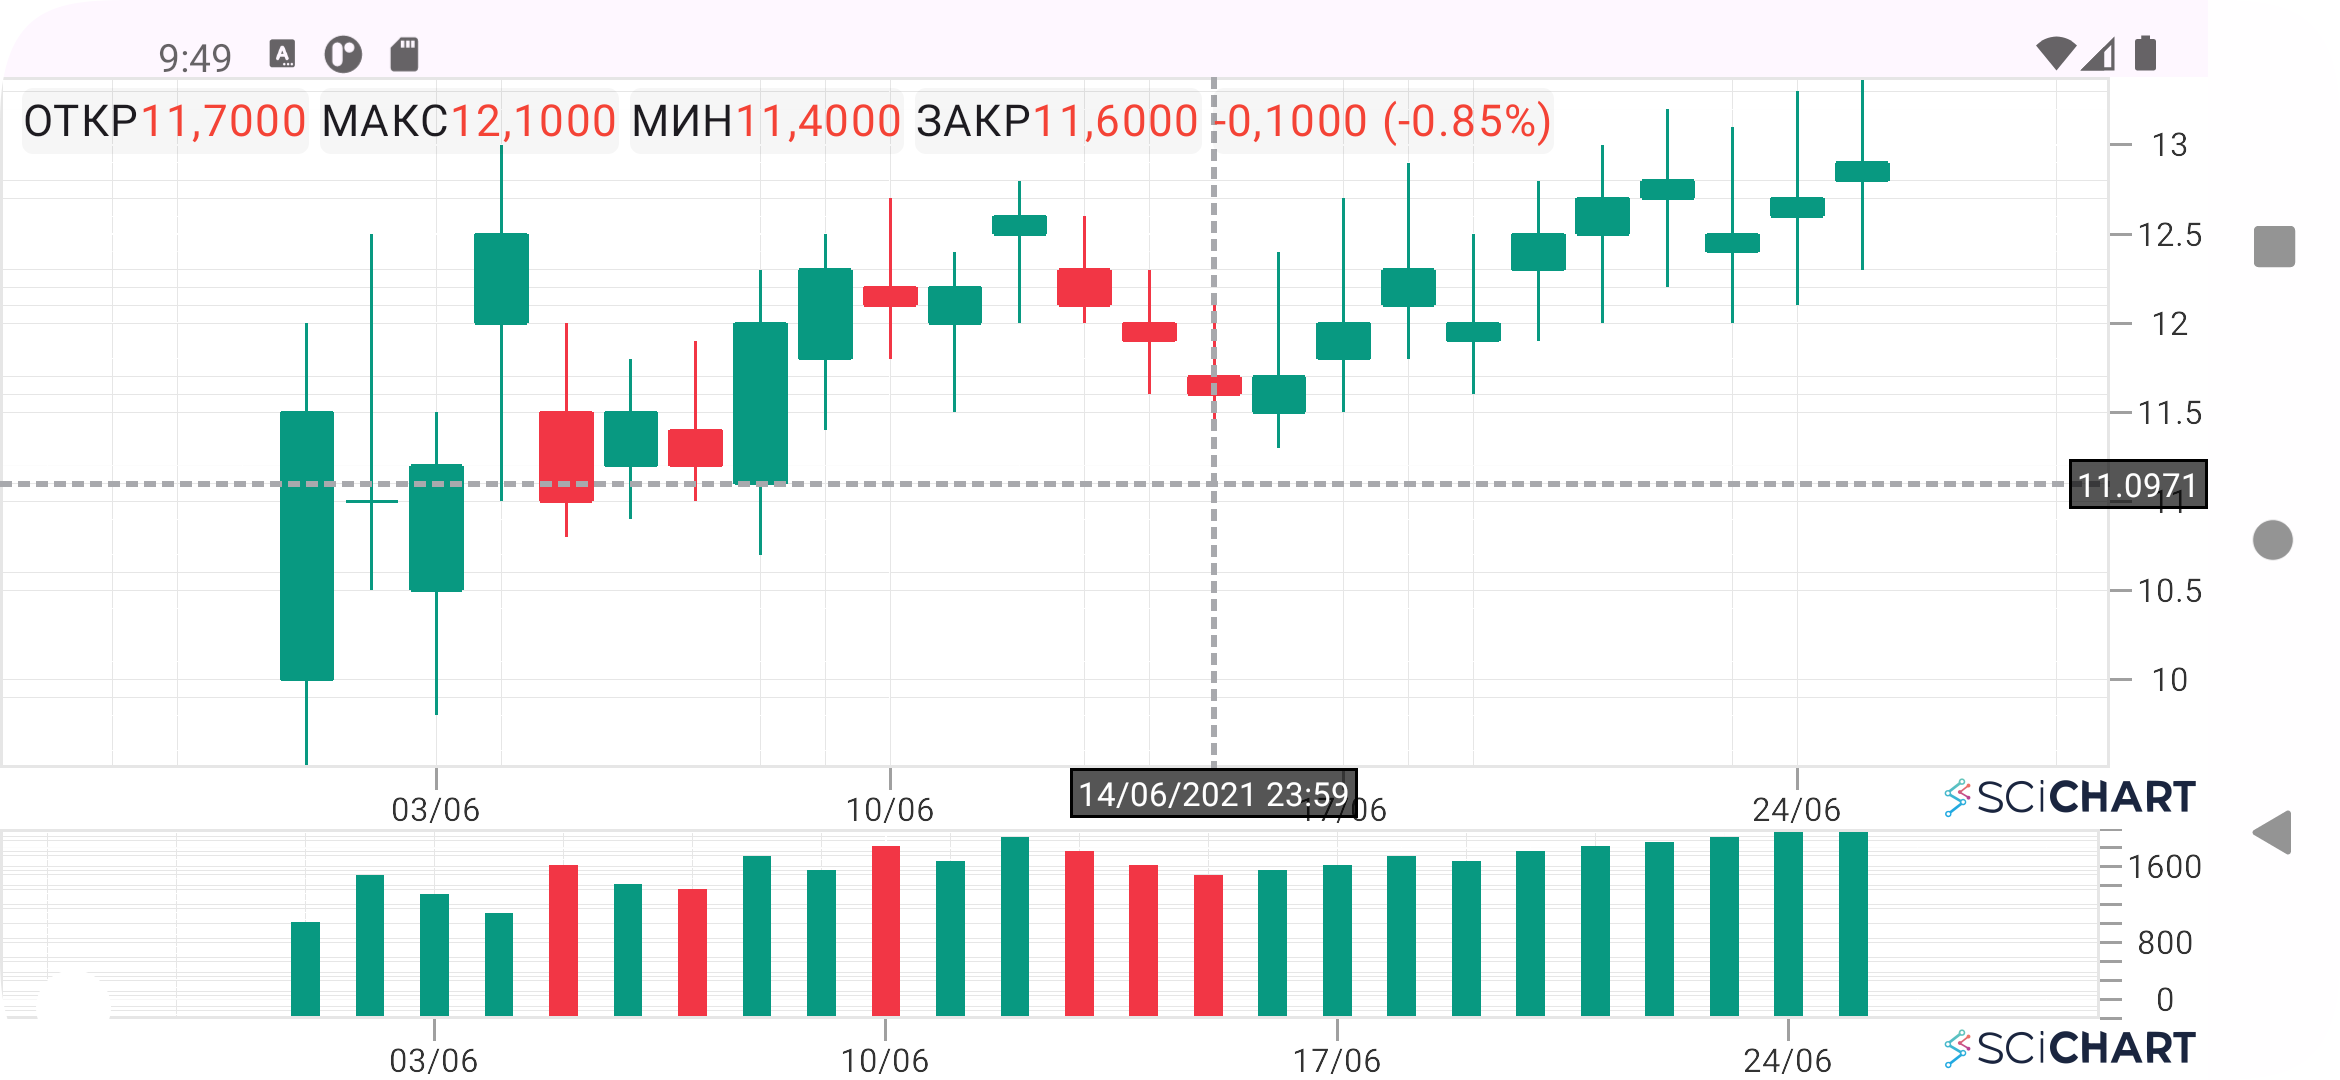
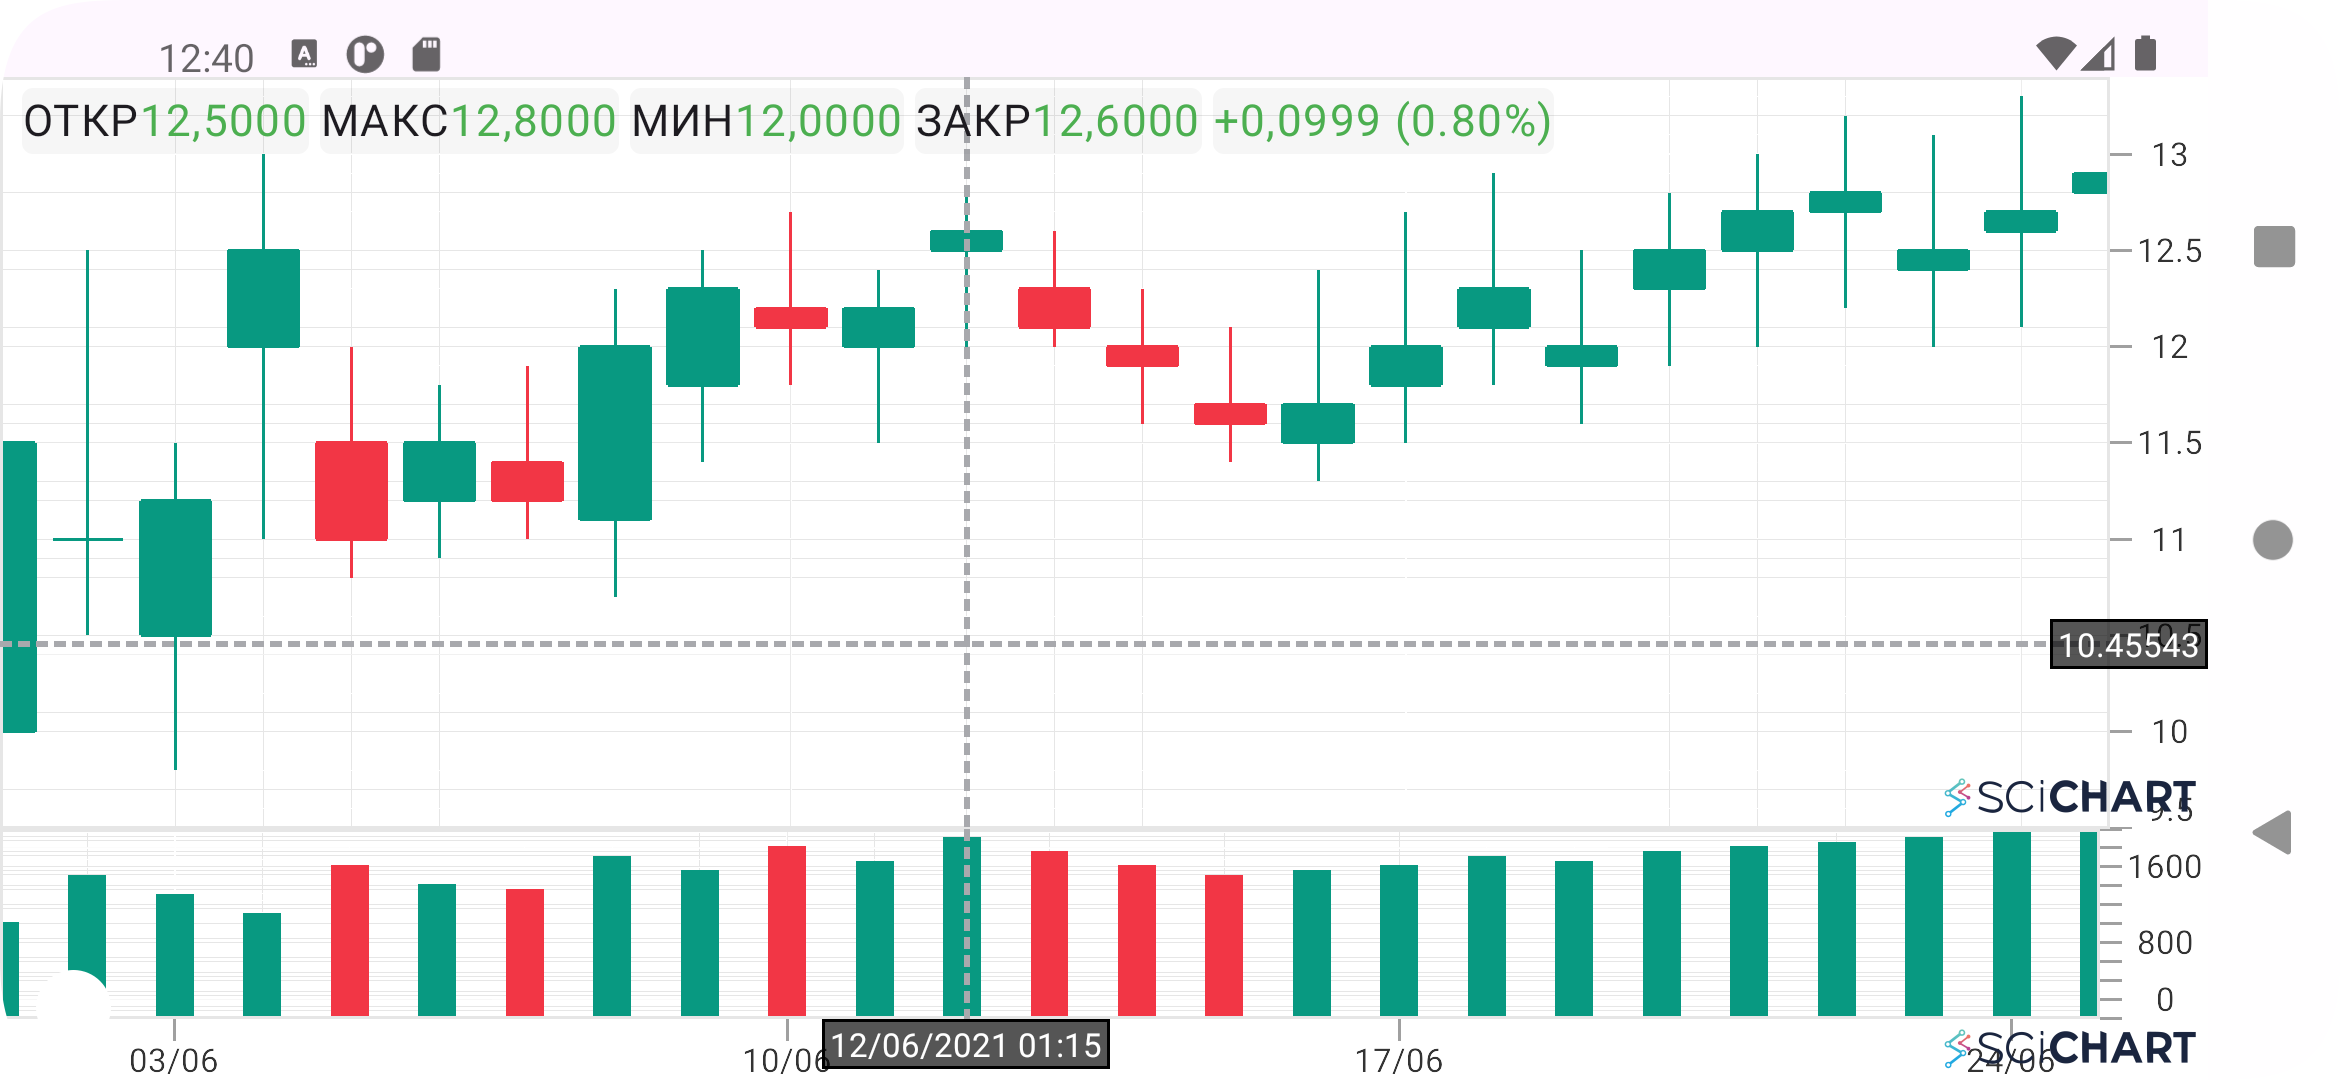
Implemented charts crosshair sync with volume chart only vertical cursor style

diff --git a/app/src/main/kotlin/com/banana/finchart/ui/screen/main/MainScreen.kt b/app/src/main/kotlin/com/banana/finchart/ui/screen/main/MainScreen.kt
@@ -3,6 +3,7 @@
 package com.banana.finchart.ui.screen.main
 
 import android.graphics.DashPathEffect
+import android.view.View
 import androidx.compose.foundation.background
 import androidx.compose.foundation.layout.Arrangement
 import androidx.compose.foundation.layout.Box
@@ -19,7 +20,6 @@ import androidx.compose.material3.AlertDialog
 import androidx.compose.material3.Button
 import androidx.compose.material3.MaterialTheme
 import androidx.compose.material3.Text
-import androidx.compose.material3.TextButton
 import androidx.compose.material3.TextField
 import androidx.compose.material3.TextFieldDefaults
 import androidx.compose.runtime.Composable
@@ -39,15 +39,18 @@ import androidx.compose.ui.unit.dp
 import androidx.compose.ui.viewinterop.AndroidView
 import com.banana.finchart.R
 import com.banana.finchart.data.market.OHLC
-import com.banana.finchart.ui.common.chart.SnapCrosshairModifier
+import com.banana.finchart.ui.common.chart.modifier.SnapCrosshairModifier
 import com.banana.finchart.ui.common.chart.VolumePaletteProvider
+import com.banana.finchart.ui.common.chart.modifier.verticalCursor.VerticalCursorModifier
 import com.banana.finchart.ui.common.util.FormatUtil.format
 import com.banana.finchart.ui.common.util.FormatUtil.formatWithComma
+import com.banana.finchart.ui.common.util.TouchUtil.overrideTouch
 import com.banana.finchart.ui.theme.ChartGreenUp
 import com.banana.finchart.ui.theme.ChartGridColor
 import com.banana.finchart.ui.theme.ChartRedDown
 import com.scichart.charting.model.dataSeries.OhlcDataSeries
 import com.scichart.charting.model.dataSeries.XyDataSeries
+import com.scichart.charting.modifiers.CursorModifier
 import com.scichart.charting.modifiers.PinchZoomModifier
 import com.scichart.charting.modifiers.ZoomExtentsModifier
 import com.scichart.charting.visuals.SciChartSurface
@@ -63,6 +66,8 @@ import java.util.Collections
 import java.util.Date
 
 object MainScreen {
+
+    private lateinit var crosshairModifier: SnapCrosshairModifier
 
     @Composable
     fun TradingChart(modifier: Modifier, mainViewModel: MainScreenViewModel) {
@@ -195,11 +200,11 @@ object MainScreen {
                 }
             },
             update = { surface ->
-                var ohlcList = mainViewModel.activeChartSnapshot.value!!.ohlcDataList
+                val ohlcList = mainViewModel.activeChartSnapshot.value!!.ohlcDataList
 
                 val xAxis = DateAxis(surface.context).apply {
                     axisId = "xAxisCandle"
-                    //visibility = View.GONE
+                    visibility = View.GONE
                     this.visibleRange = visibleRange.value
                     setVisibleRangeChangeListener { axus, oldRange, newRange, isAnimated ->
                         if (visibleRange.value != newRange) {
@@ -234,17 +239,14 @@ object MainScreen {
                     yAxisId = "yAxisCandle"
                 }
 
-                val crosshairModifier = SnapCrosshairModifier(
+                crosshairModifier = SnapCrosshairModifier(
                     candleDataSeries = dataSeries,
                     stateFlow = mainViewModel.crosshairStateFlow,
-                ).apply {
-                    crosshairPaint.apply {
-                        pathEffect = DashPathEffect(floatArrayOf(12f, 6f), 0f)
-                    }
-                }
+                )
 
                 UpdateSuspender.using(surface) {
                     applyAxisStyle(xAxis, yAxis)
+                    applyCursorModifierStyle(crosshairModifier)
 
                     Collections.addAll(surface.renderableSeries, candleSeries)
                     Collections.addAll(
@@ -273,7 +275,7 @@ object MainScreen {
                 }
             },
             update = { surface ->
-                var ohlcList = mainViewModel.activeChartSnapshot.value!!.ohlcDataList
+                val ohlcList = mainViewModel.activeChartSnapshot.value!!.ohlcDataList
 
                 val xAxis = DateAxis(surface.context).apply {
                     axisId = "xAxisVolume"
@@ -312,21 +314,35 @@ object MainScreen {
                     yAxisId = "yAxisVolume"
                 }
 
-//                val volumeCross = CursorModifier().apply {
-//                }
+                val volumeCross = VerticalCursorModifier().apply {
+                    crosshairModifier.setModifierTouchListener {
+                        onTouch(it.overrideTouch(surface, this))
+                    }
+                }
 
                 UpdateSuspender.using(surface) {
                     applyAxisStyle(xAxis, yAxis)
                     applyVolumeStyle(columnSeries, ohlcList)
+                    applyCursorModifierStyle(volumeCross)
 
                     Collections.addAll(surface.renderableSeries, columnSeries)
                     Collections.addAll(
                         surface.chartModifiers,
-//                        volumeCross
+                        volumeCross
                     )
                 }
             }
         )
+    }
+
+    private fun applyCursorModifierStyle(modifier: CursorModifier) {
+        modifier.apply {
+            offset = 0f
+            showTooltip = false
+            crosshairPaint.apply {
+                pathEffect = DashPathEffect(floatArrayOf(12f, 6f), 0f)
+            }
+        }
     }
 
     private fun applyVolumeStyle(columnSeries: FastColumnRenderableSeries, ohlcList: List<OHLC>) {

diff --git a/app/src/main/kotlin/com/banana/finchart/ui/common/chart/modifier/SnapCrosshairModifier.kt b/app/src/main/kotlin/com/banana/finchart/ui/common/chart/modifier/SnapCrosshairModifier.kt
@@ -1,8 +1,8 @@
-package com.banana.finchart.ui.common.chart
+package com.banana.finchart.ui.common.chart.modifier
 
-import android.os.SystemClock
 import android.view.MotionEvent
 import android.view.ViewConfiguration
+import com.banana.finchart.ui.common.util.TouchUtil.overrideTouch
 import com.scichart.charting.model.dataSeries.OhlcDataSeries
 import com.scichart.charting.modifiers.CursorModifier
 import com.scichart.core.IServiceContainer
@@ -28,7 +28,7 @@ class SnapCrosshairModifier(
         val timestampMs: Long
     ) {
         object None : State(-1)
-        data class Active(var timestamp: Long) : State(timestamp)
+        class Active(timestampMs: Long) : State(timestampMs)
     }
 
     // Handler + Looper is so trivial
@@ -37,12 +37,9 @@ class SnapCrosshairModifier(
     private var longPressToggle = false
     private val longPressTimeoutMs = ViewConfiguration.getLongPressTimeout().toLong()
 
-    private var pressToggle = false
+    private var modifierTouchHandler: ((ModifierTouchEventArgs) -> Unit)? = null
 
-    init {
-        offset = 0f
-        showTooltip = false
-    }
+    private var pressToggle = false
 
     var pX = 0f
     var pY = 0f
@@ -70,12 +67,12 @@ class SnapCrosshairModifier(
 
                     stateFlow.value = State.Active(candleTimestampMs)
 
-                    val tea = touchEventArgs.asFakeTouch(
-                        pX,
-                        pY,
-                        MotionEvent.ACTION_DOWN
-                    )
-                    super.onTouch(tea)
+                    proceedModifierTouch(
+                        touchEventArgs.overrideTouch(
+                            pX,
+                            pY,
+                            MotionEvent.ACTION_DOWN
+                        ))
                 }
             }
             MotionEvent.ACTION_MOVE -> {
@@ -94,12 +91,12 @@ class SnapCrosshairModifier(
 
                 stateFlow.value = State.Active(candleTimestampMs)
 
-                val tea = touchEventArgs.asFakeTouch(
-                    pX,
-                    pY,
-                    MotionEvent.ACTION_MOVE
-                )
-                super.onTouch(tea)
+                proceedModifierTouch(
+                    touchEventArgs.overrideTouch(
+                        pX,
+                        pY,
+                        MotionEvent.ACTION_MOVE
+                    ))
             }
             MotionEvent.ACTION_UP, MotionEvent.ACTION_CANCEL -> {
                 longPressJob?.cancel()
@@ -109,9 +106,14 @@ class SnapCrosshairModifier(
 
                 stateFlow.value = State.None
 
-                super.onTouch(touchEventArgs)
+                proceedModifierTouch(touchEventArgs)
             }
         }
+    }
+
+    private fun proceedModifierTouch(touchEventArgs: ModifierTouchEventArgs) {
+        super.onTouch(touchEventArgs)
+        modifierTouchHandler?.invoke(touchEventArgs)
     }
 
     private fun findNearestCandleTimestampMs(touchX: Float): Long {
@@ -140,14 +142,7 @@ class SnapCrosshairModifier(
         super.detach()
     }
 
-    private fun ModifierTouchEventArgs.asFakeTouch(x: Float, y: Float, action: Int) = apply {
-        e = MotionEvent.obtain(
-            SystemClock.uptimeMillis(),
-            SystemClock.uptimeMillis(),
-            action,
-            x,
-            y,
-            0,
-        )
+    fun setModifierTouchListener(handler: ((ModifierTouchEventArgs) -> Unit)?) {
+        this.modifierTouchHandler = handler
     }
 }

diff --git a/app/src/main/kotlin/com/banana/finchart/ui/common/SecurePrefs.kt b/app/src/main/kotlin/com/banana/finchart/ui/common/SecurePrefs.kt
@@ -3,7 +3,8 @@ package com.banana.finchart.ui.common
 import android.content.Context
 import android.content.SharedPreferences
 import androidx.security.crypto.EncryptedSharedPreferences
-import androidx.security.crypto.MasterKeys
+import androidx.security.crypto.MasterKey
+import androidx.core.content.edit
 
 class SecurePrefs(context: Context) {
 
@@ -13,11 +14,14 @@ class SecurePrefs(context: Context) {
     }
 
     private val sharedPrefs: SharedPreferences by lazy {
-        val masterKeyAlias = MasterKeys.getOrCreate(MasterKeys.AES256_GCM_SPEC)
+        val masterKey = MasterKey.Builder(context)
+            .setKeyScheme(MasterKey.KeyScheme.AES256_GCM)
+            .build()
+
         EncryptedSharedPreferences.create(
-            PREFS_NAME,
-            masterKeyAlias,
             context.applicationContext,
+            PREFS_NAME,
+            masterKey,
             EncryptedSharedPreferences.PrefKeyEncryptionScheme.AES256_SIV,
             EncryptedSharedPreferences.PrefValueEncryptionScheme.AES256_GCM
         )
@@ -26,10 +30,10 @@ class SecurePrefs(context: Context) {
     fun getSciChartsApiKey(): String? = sharedPrefs.getString(KEY_SCI_CHARTS_API, null)
 
     fun saveSciChartsApiKey(key: String) {
-        sharedPrefs.edit().putString(KEY_SCI_CHARTS_API, key).apply()
+        sharedPrefs.edit { putString(KEY_SCI_CHARTS_API, key) }
     }
 
     fun clearSciChartsApiKey() {
-        sharedPrefs.edit().remove(KEY_SCI_CHARTS_API).apply()
+        sharedPrefs.edit { remove(KEY_SCI_CHARTS_API) }
     }
 }

diff --git a/app/src/main/kotlin/com/banana/finchart/ui/common/chart/modifier/verticalCursor/VerticalCursorModifier.kt b/app/src/main/kotlin/com/banana/finchart/ui/common/chart/modifier/verticalCursor/VerticalCursorModifier.kt
@@ -1,0 +1,24 @@
+package com.banana.finchart.ui.common.chart.modifier.verticalCursor
+
+import com.scichart.charting.R
+import com.scichart.charting.modifiers.CursorModifier
+import com.scichart.charting.modifiers.behaviors.AxisTooltipsBehaviorBase
+import com.scichart.charting.modifiers.behaviors.CursorCrosshairDrawableBehavior
+import com.scichart.charting.modifiers.behaviors.CursorTooltipBehavior
+
+class VerticalCursorModifier : CursorModifier {
+
+    constructor() : this(R.layout.scichart_default_cursor_modifier_tooltip_container)
+
+    constructor(tooltipContainerLayoutResId: Int) : this(
+        CursorTooltipBehavior(VerticalCursorModifier::class.java, tooltipContainerLayoutResId),
+        VerticalCursorTooltipsBehavior(VerticalCursorModifier::class.java),
+        VerticalCursorDrawableBehavior(VerticalCursorModifier::class.java)
+    )
+
+    constructor(
+        cursorTooltipBehavior: CursorTooltipBehavior<*>,
+        axisTooltipsBehavior: AxisTooltipsBehaviorBase<*>,
+        crosshairDrawableBehavior: CursorCrosshairDrawableBehavior<*>
+    ) : super(cursorTooltipBehavior, axisTooltipsBehavior, crosshairDrawableBehavior)
+}

diff --git a/app/src/main/kotlin/com/banana/finchart/ui/common/util/TouchUtil.kt b/app/src/main/kotlin/com/banana/finchart/ui/common/util/TouchUtil.kt
@@ -1,0 +1,35 @@
+package com.banana.finchart.ui.common.util
+
+import android.os.SystemClock
+import android.view.MotionEvent
+import com.scichart.core.utility.touch.IPublishMotionEvents
+import com.scichart.core.utility.touch.IReceiveMotionEvents
+import com.scichart.core.utility.touch.ModifierTouchEventArgs
+
+object TouchUtil {
+    fun ModifierTouchEventArgs.overrideTouch(
+        x: Float,
+        y: Float,
+        action: Int,
+        recycle: Boolean = true
+    ) = apply {
+        if (recycle) e?.recycle()
+        e = MotionEvent.obtain(
+            SystemClock.uptimeMillis(),
+            SystemClock.uptimeMillis(),
+            action,
+            x,
+            y,
+            0,
+        )
+    }
+
+    fun ModifierTouchEventArgs.overrideTouch(
+        target: IPublishMotionEvents,
+        source: IReceiveMotionEvents,
+        recycle: Boolean = true
+    ) = run {
+        ModifierTouchEventArgs(target, source)
+            .overrideTouch(e.x, e.y, e.action, recycle)
+    }
+}

diff --git a/app/src/main/kotlin/com/banana/finchart/ui/common/chart/modifier/verticalCursor/VerticalCursorDrawableBehavior.kt b/app/src/main/kotlin/com/banana/finchart/ui/common/chart/modifier/verticalCursor/VerticalCursorDrawableBehavior.kt
@@ -1,0 +1,25 @@
+package com.banana.finchart.ui.common.chart.modifier.verticalCursor
+
+import android.graphics.Canvas
+import android.graphics.Path
+import com.scichart.charting.modifiers.CursorModifier
+import com.scichart.charting.modifiers.behaviors.CursorCrosshairDrawableBehavior
+
+class VerticalCursorDrawableBehavior<T : CursorModifier>(modifierType: Class<T>) :
+    CursorCrosshairDrawableBehavior<T>(modifierType) {
+
+    private val path = Path()
+
+    override fun onDrawOverlay(canvas: Canvas) {
+        if (isLastPointValid) {
+            val x = lastUpdatePoint.x
+            val crosshairPaint = (modifier as CursorModifier).crosshairPaint
+
+            path.moveTo(x, 0f)
+            path.lineTo(x, canvas.height.toFloat())
+
+            canvas.drawPath(path, crosshairPaint)
+            path.rewind()
+        }
+    }
+}

diff --git a/app/src/main/kotlin/com/banana/finchart/ui/screen/main/MainScreenViewModel.kt b/app/src/main/kotlin/com/banana/finchart/ui/screen/main/MainScreenViewModel.kt
@@ -5,12 +5,11 @@ import androidx.lifecycle.ViewModel
 import androidx.lifecycle.viewModelScope
 import com.banana.finchart.data.chart.ChartSnapshot
 import com.banana.finchart.model.snapshot.SnapshotManager
-import com.banana.finchart.ui.common.chart.SnapCrosshairModifier
+import com.banana.finchart.ui.common.chart.modifier.SnapCrosshairModifier
 import dagger.hilt.android.lifecycle.HiltViewModel
 import kotlinx.coroutines.Dispatchers
 import kotlinx.coroutines.flow.MutableStateFlow
 import kotlinx.coroutines.launch
-import java.io.InputStream
 import javax.inject.Inject
 
 @HiltViewModel

diff --git a/app/src/main/kotlin/com/banana/finchart/ui/common/chart/modifier/verticalCursor/VerticalCursorTooltipsBehavior.kt b/app/src/main/kotlin/com/banana/finchart/ui/common/chart/modifier/verticalCursor/VerticalCursorTooltipsBehavior.kt
@@ -1,0 +1,14 @@
+package com.banana.finchart.ui.common.chart.modifier.verticalCursor
+
+import android.graphics.PointF
+import com.scichart.charting.modifiers.IChartModifier
+import com.scichart.charting.modifiers.behaviors.AxisTooltipsBehavior
+import com.scichart.charting.visuals.axes.IAxisTooltip
+
+class VerticalCursorTooltipsBehavior<T : IChartModifier>(modifierType: Class<T>) :
+    AxisTooltipsBehavior<T>(modifierType) {
+
+    override fun updateYAxisTooltip(tooltip: IAxisTooltip, point: PointF) {
+        // stub
+    }
+}

diff --git a/app/src/main/kotlin/com/banana/finchart/MainActivity.kt b/app/src/main/kotlin/com/banana/finchart/MainActivity.kt
@@ -101,6 +101,6 @@ class MainActivity : ComponentActivity() {
     }
 
     private fun loadChartsData() {
-        mainViewModel.loadChartsData(assets, "EURUSD_OHLCV.xlsx", "6E")
+        mainViewModel.loadChartsData(assets, "EURUSD_OHLCV.xlsx", "6E"/*"mock"*/)
     }
 }
